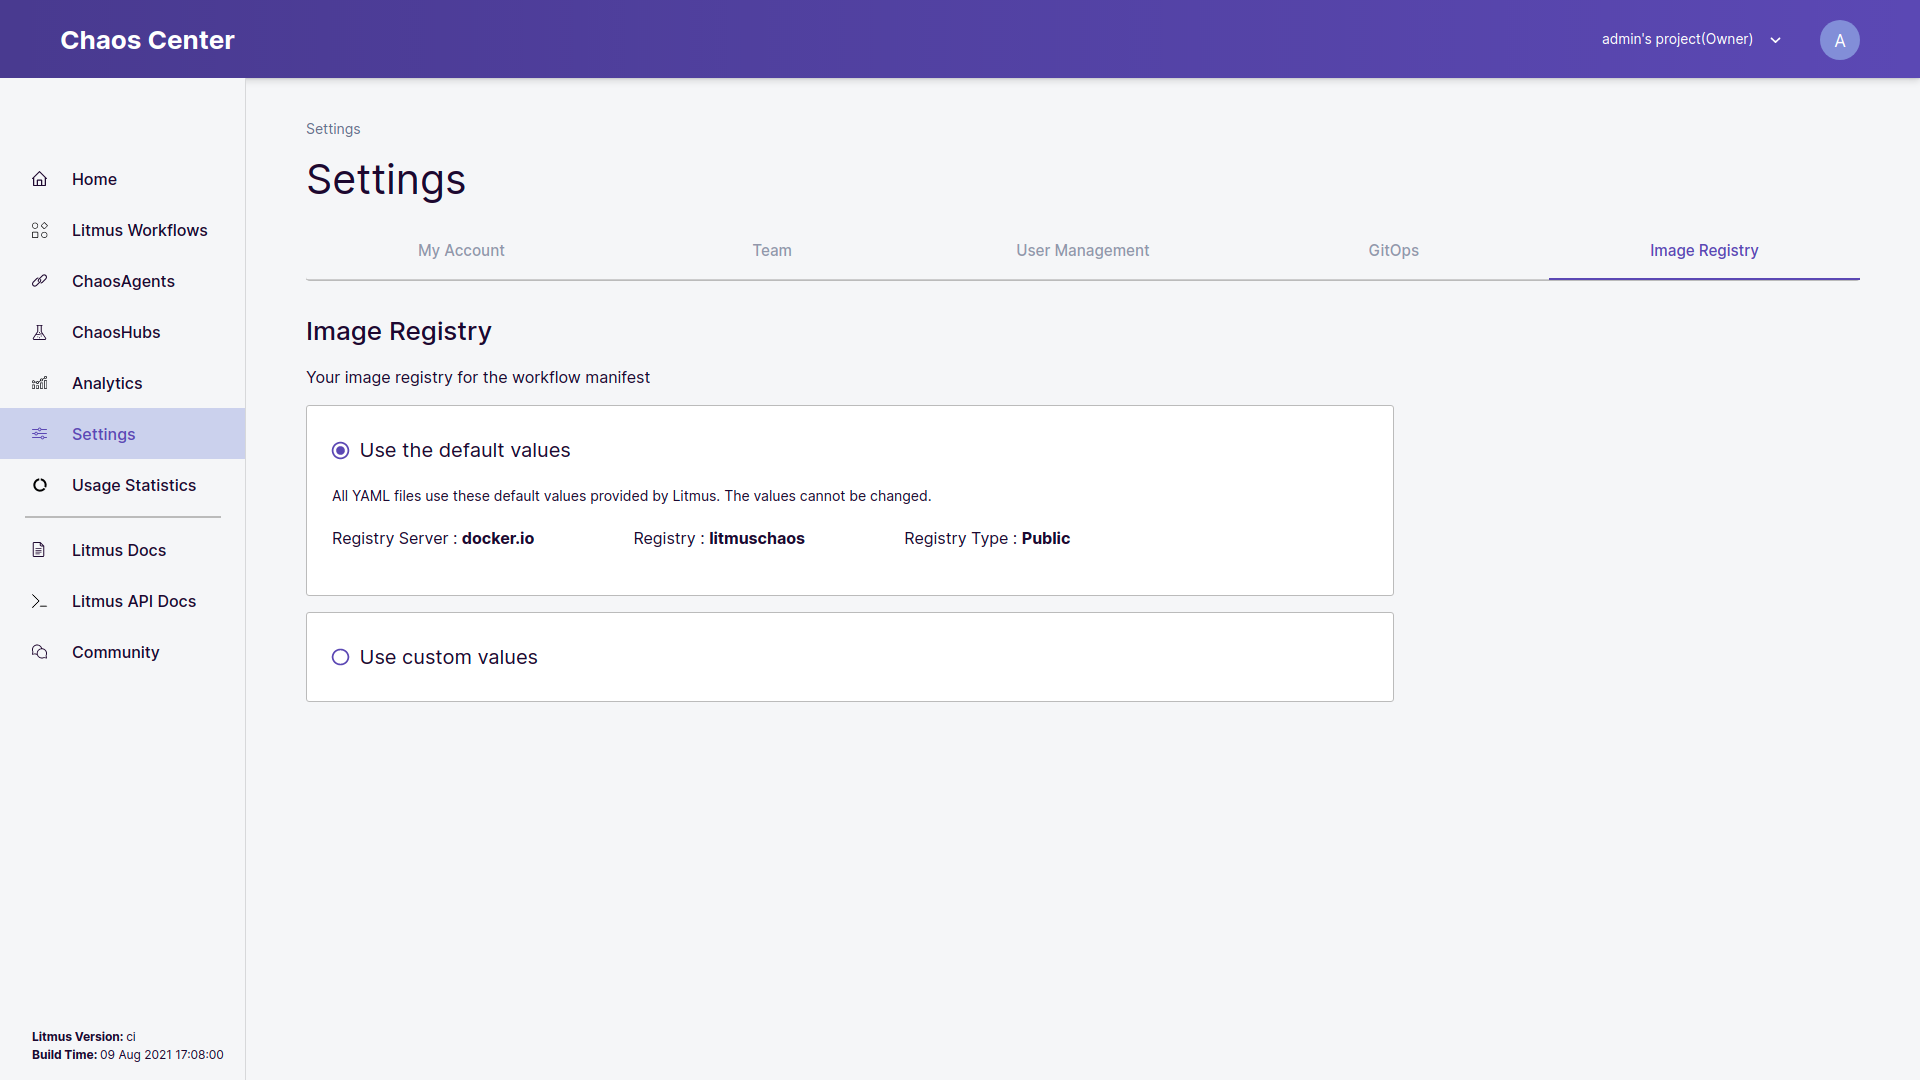
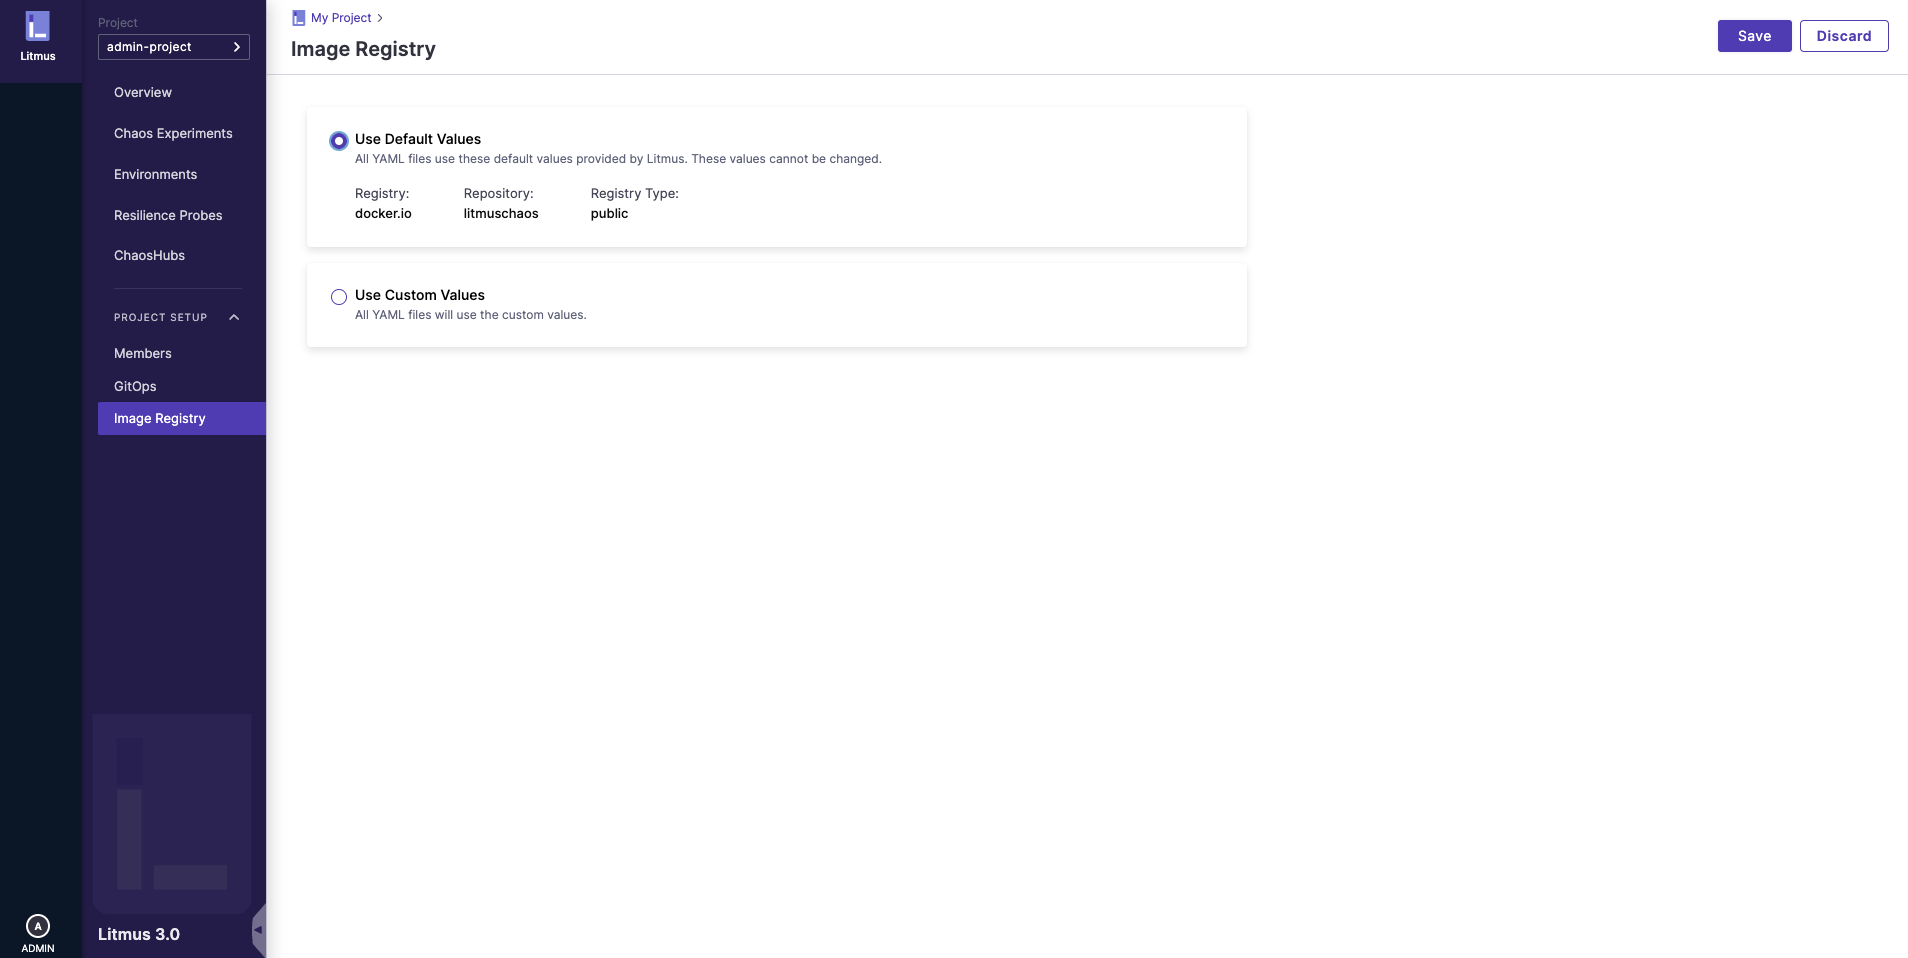
added image registry user guide, removed upgrade section for 3.0, added note in glossary

diff --git a/website/versioned_docs/version-3.0.0/user-guides/image-registry.md b/website/versioned_docs/version-3.0.0/user-guides/image-registry.md
@@ -1,6 +1,6 @@
 ---
 id: image-registry
-title: Using different Image Registries in a Chaos Scenario
+title: Using different Image Registries in a Chaos Experiments
 sidebar_label: Using different Image Registries
 ---
 
@@ -8,38 +8,38 @@ sidebar_label: Using different Image Registries
 
 A container image registry can be defined as a collection of repositories that store container image.
 These can be either public or private. Few of the container image registries are Docker, Red Hat Quay, Google Container Registry.
-By default LitmusChaos uses DockerHub for managing the different images. These images are then used in Chaos Scenarios. Few images that are used in the Litmus chaos scenarios are `litmuschaos:k8s`, `litmuschaos:litmus-checker` etc.
-With ChaosCenter, you get the privilege to use your own/custom image registries for Chaos Scenarios.
+By default LitmusChaos uses DockerHub for managing the different images. These images are then used in Chaos experiments. Few images that are used in the Litmus chaos experiments are `litmuschaos:k8s`, `litmuschaos:litmus-checker` etc.
+With ChaosCenter, you get the privilege to use your own/custom image registries for Chaos experiments.
 
 ## Before you begin
 
-To understand the concept of Image Registry, make sure you are aware of [Chaos Scenario](../concepts/chaos-workflow.md) and the different image registries that are used in it.
+To understand the concept of Image Registry, make sure you are aware of [Chaos experiment](../concepts/chaos-workflow.md) and the different image registries that are used in it.
 
-## Steps to Update Chaos Scenario Image Registry
+## Steps to Update Chaos experiment Image Registry
 
-To updated the Chaos Scenario Image Registry, you can go to Settings in ChaosCenter. In settings, there will be tab named Image Registry. On clicking the Image Registry tab, you can see that the default Registry server is `docker.io`, Registry name is `litmuschaos` and it is a Public registry.
+To updated the Chaos experiment Image Registry, you can go to Image Registry in ChaosCenter (Project Setup > Image Registry on the left nav). On clicking the Image Registry tab, you can see that the default Registry server is `docker.io`, Registry name is `litmuschaos` and it is a Public registry.
 
-<img src={require('../assets/user-guides/image-registry/img-registry-tab.png').default} width="800" />
+<img src={require('../assets/user-guides/image-registry/img-registry-tab.png').default} />
 <br/><br/>
 
 To update this, click on the `Use Custom Values` option and provide the following details:
 
-1. Registry Server
-2. Registry Name
+1. Custom Image Registry (Registry Server)
+2. Custom Repo (Registry Name)
 3. Registry Type `Public/Private`
 
-<img src={require('../assets/user-guides/image-registry/img-registry-update.png').default} width="800" />
+<img src={require('../assets/user-guides/image-registry/img-registry-update.png').default} />
 <br/><br/>
 
-If the Registry Type is `Private`, make sure to provide the secret and the namespace where the secret is present.
+If the Registry Type is `Private`, make sure to provide the secret.
 
-Once the details are provided, click on the `Save Changes` button and you can see the updated Image Registry changes.
+Once the details are provided, click on the `Save` button and you can see the updated Image Registry changes.
 
-<img src={require('../assets/user-guides/image-registry/img-registry-updated.png').default} width="800" />
+<img src={require('../assets/user-guides/image-registry/img-registry-updated.png').default} />
 
 <br/><br/>
 
-Now while scheduling a chaos scenario, the image registry changes will be visible. Here's the code snippet from a Chaos Scenario after the image registry change.
+Now while scheduling a chaos experiment, the image registry changes will be visible. Here's the code snippet from a Chaos experiment after the image registry change.
 
 ```yaml
 - name: install-application
@@ -59,5 +59,5 @@ Now while scheduling a chaos scenario, the image registry changes will be visibl
 
 ## Learn More
 
-- [What is a Chaos Scenario](../concepts/chaos-workflow.md)
+- [What is a Chaos experiment](../concepts/chaos-workflow.md)
 - [What is ChaosCenter](../getting-started/resources.md#chaoscenter)

diff --git a/website/versioned_docs/version-3.0.0/glossary.md b/website/versioned_docs/version-3.0.0/glossary.md
@@ -4,6 +4,10 @@ title: Glossary
 sidebar_label: Glossary
 ---
 
+:::note
+Pleas note that Litmus 3.0 is not backward compatible and will require a fresh installation for users looking to migrate from previous versions
+:::
+
 ## Chaos Resources
 
 At the heart of the Litmus Platform are the chaos custom resources. This section consists of the specification (details of each field within the .spec & .status of the resources) as well as standard examples for tuning the supported parameters.
